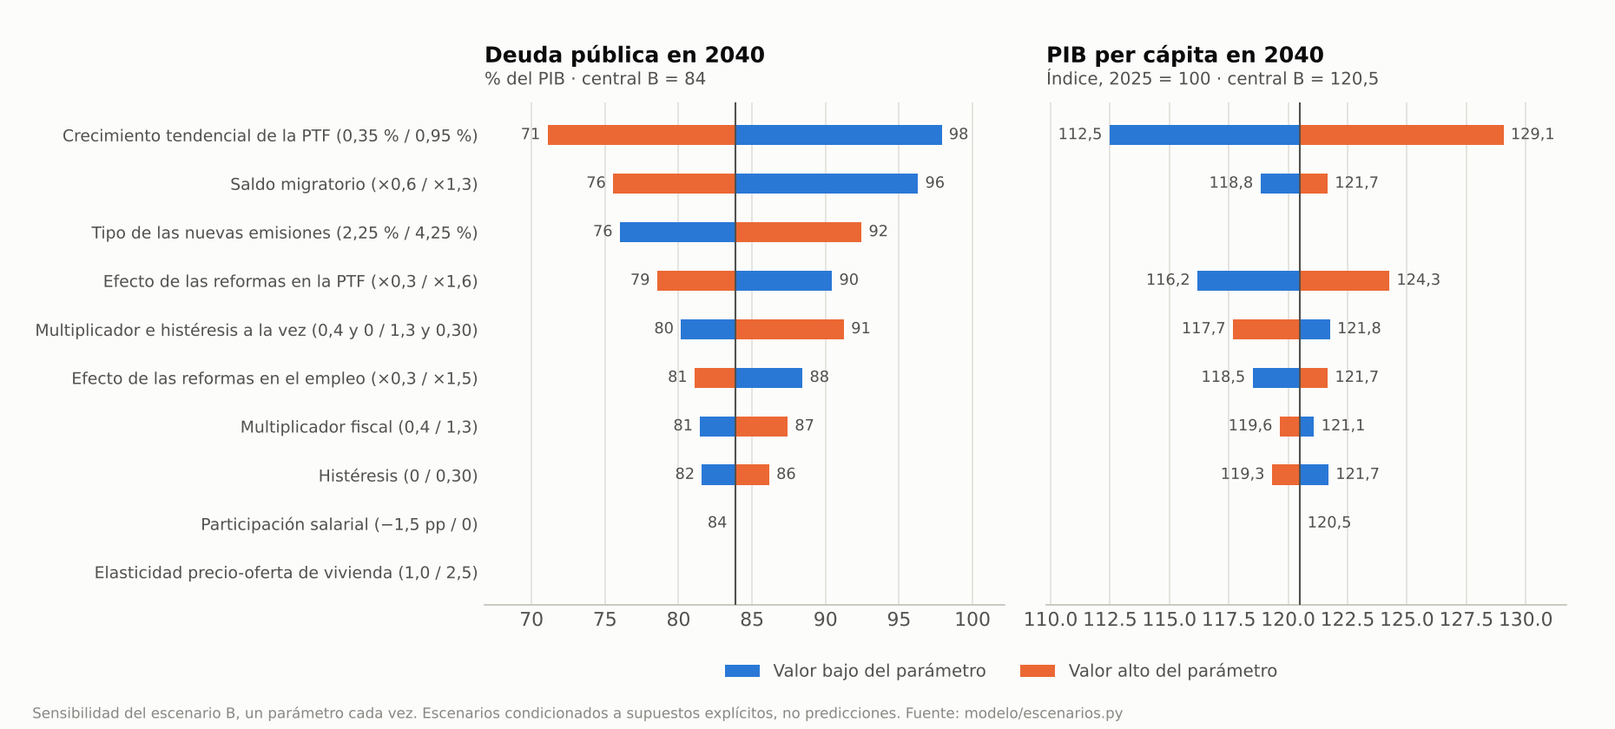
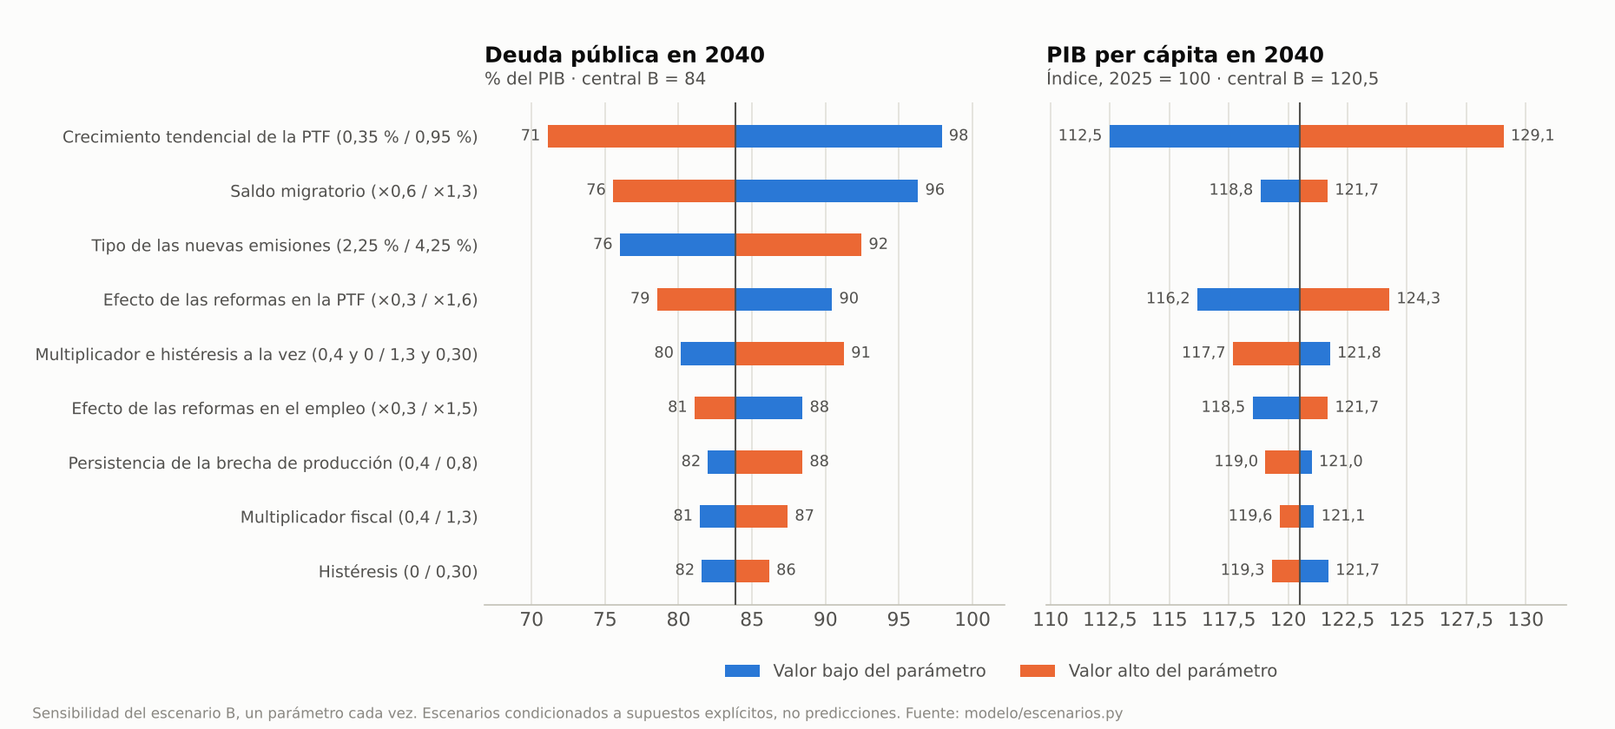
Fase 2: bloques de precios, pensiones y demografía, función pública y gasto
Claude-Session: https://claude.ai/code/session_01MXDwYoDdjNNQTuS5SSWoBb

diff --git a/modelo/escenarios.py b/modelo/escenarios.py
@@ -522,6 +522,7 @@ SENSIBILIDAD = [
     ("Histéresis (0 / 0,30)", "P", "histeresis", 0.0, 0.30),
     ("Multiplicador e histéresis a la vez (0,4 y 0 / 1,3 y 0,30)", "P", ("multiplicador", "histeresis"),
      (0.4, 0.0), (1.3, 0.30)),
+    ("Persistencia de la brecha de producción (0,4 / 0,8)", "P", "persistencia_brecha", 0.4, 0.8),
     ("Tipo de las nuevas emisiones (2,25 % / 4,25 %)", "P", "tipo_nuevo", 2.25, 4.25),
     ("Crecimiento tendencial de la PTF (0,35 % / 0,95 %)", "P", "ptf_base", 0.35, 0.95),
     ("Saldo migratorio (×0,6 / ×1,3)", "P", "factor_migracion", 0.6, 1.3),
@@ -576,6 +577,20 @@ def _estilo():
     return plt
 
 
+def _es(v, dec=None):
+    """Número con formato español (coma decimal, punto de millares)."""
+    if dec is None:
+        dec = 0 if abs(v - round(v)) < 1e-9 else 1
+    if dec < 0:
+        v, dec = round(v, dec), 0
+    return f"{v:,.{dec}f}".replace(",", "@").replace(".", ",").replace("@", ".")
+
+
+def _ejes_es(ax, eje="y"):
+    from matplotlib.ticker import FuncFormatter
+    getattr(ax, f"{eje}axis").set_major_formatter(FuncFormatter(lambda v, _: _es(v)))
+
+
 def _lineas(ax, res, col, base0, titulo, unidad, dec=1, ref=None, etiquetas=True):
     """Una línea por escenario, con valor final rotulado y sin doble eje."""
     finales = []
@@ -600,7 +615,7 @@ def _lineas(ax, res, col, base0, titulo, unidad, dec=1, ref=None, etiquetas=True
                     m = (pos[i] + pos[i - 1]) / 2
                     pos[i - 1], pos[i] = m - sep / 2, m + sep / 2
         for (k, v), p in zip(finales, pos):
-            txt = f"{k}  {v:,.{dec}f}".replace(",", "@").replace(".", ",").replace("@", ".")
+            txt = f"{k}  {_es(v, dec)}"
             ax.annotate(txt, (AÑO_FIN, p), xytext=(9, 0), textcoords="offset points",
                         va="center", ha="left", fontsize=9.5, color=TINTA)
     ax.set_title(titulo, loc="left", fontsize=12, color=TINTA, fontweight="bold", pad=22)
@@ -609,6 +624,7 @@ def _lineas(ax, res, col, base0, titulo, unidad, dec=1, ref=None, etiquetas=True
     ax.set_xticks(range(AÑO_BASE, AÑO_FIN + 1, 5))
     ax.grid(axis="x", visible=False)
     ax.tick_params(length=0)
+    _ejes_es(ax)
 
 
 def _leyenda(fig, ax, ncol=4, y=0.0):
@@ -657,7 +673,7 @@ def graficos(res: dict, sens: pd.DataFrame):
           "salario_bruto_real_indice", "Coste laboral real por ocupado", "Índice, 2025 = 100", 1,
           "07_salario_real.png")
     doble("deficit_vivienda_miles", "Déficit acumulado de vivienda",
-          "Miles de viviendas (hogares creados − viviendas terminadas, desde 2021)", 0,
+          "Miles de viviendas (hogares creados − viviendas terminadas, desde 2021)", -1,
           "precio_renta_años", "Precio de la vivienda / renta del hogar", "Años de renta bruta", 1,
           "08_vivienda.png", ref1=(0, "Déficit absorbido"))
 
@@ -671,15 +687,16 @@ def graficos(res: dict, sens: pd.DataFrame):
     for ax, (m, tit, uni, dec) in zip(axs, paneles):
         t = sb.pivot(index="parametro", columns="nivel", values=m)
         t["amp"] = (t["alto"] - t["bajo"]).abs()
-        if orden is None:
-            orden = t.sort_values("amp").index
+        if orden is None:  # solo los parámetros que mueven alguna de las dos magnitudes
+            mueve = sb.groupby("parametro")[[p[0] for p in paneles]].agg(lambda c: c.max() - c.min()).max(axis=1)
+            orden = [p for p in t.sort_values("amp").index if mueve[p] > 0.5]
         t = t.loc[orden]
         for i, (_, f) in enumerate(t.iterrows()):
             for nivel, color in (("bajo", "#2a78d6"), ("alto", "#eb6834")):
                 ax.barh(i, f[nivel] - central[m], left=central[m], height=0.42, color=color,
                         label=f"Valor {nivel} del parámetro" if i == 0 else None, zorder=3)
                 if abs(f[nivel] - central[m]) > 1e-6:
-                    ax.annotate(f"{f[nivel]:.{dec}f}".replace(".", ","), (f[nivel], i),
+                    ax.annotate(_es(f[nivel], dec), (f[nivel], i),
                                 xytext=(4 if f[nivel] > central[m] else -4, 0), textcoords="offset points",
                                 ha="left" if f[nivel] > central[m] else "right", va="center",
                                 fontsize=8.5, color=TINTA2)
@@ -692,6 +709,7 @@ def graficos(res: dict, sens: pd.DataFrame):
         ax.grid(axis="y", visible=False)
         ax.tick_params(length=0)
         ax.margins(x=0.16)
+        _ejes_es(ax, "x")
     fig.subplots_adjust(left=0.3, right=0.97, top=0.86, bottom=0.17, wspace=0.08)
     h, l = axs[0].get_legend_handles_labels()
     fig.legend(h, l, loc="lower center", ncol=2, frameon=False, fontsize=9.5, labelcolor=TINTA2,

diff --git a/docs/02-bloques/06-funcion-publica-y-gasto.md b/docs/02-bloques/06-funcion-publica-y-gasto.md
@@ -1,0 +1,185 @@
+# 06 · Función pública y gasto
+
+*España Dinámica 2040 · Fase 2, bloque de diseño institucional (grupo B) · noviembre de 2026*
+
+**Referencias internas.** [MB] marco base; [D §x] diagnóstico (doc. 01); [E §x] evidencia internacional (doc. 02); [RT §x] crítica y riesgos (doc. 03); [C1-C12] condiciones del red team. 1 punto de PIB ≈ 17.000 M€.
+
+---
+
+## 1. Problema y objetivos medibles
+
+**Punto de partida honesto.** El Estado español **no es grande** en comparación europea: el gasto público es del ≈45-46 % del PIB frente al 49,6 % de la UE, y el empleo público del ≈16-17 % del total frente al 18,4 % de la OCDE [D §7.1-7.2]. El problema es otro:
+- **Composición y reglas:** déficit del 2,4 % (2025) y previsto del 2,8 % (2026), estructural probablemente del 2,5-3 %, con deuda del 101 % y nuevas emisiones al ≈3 % [D §7.1]. Además, una presión de envejecimiento de ≈3 puntos hasta 2050 [D §5.1], unas reglas (art. 135 CE, LO 2/2012) incumplidas de forma reiterada [RT §8] y el incumplimiento previsto de la senda de gasto neto pactada con la UE [D §7.1].
+- **Gestión:** temporalidad pública del 27,3 % (frente al 12,6 % privada), más de 936.000 interinos, plantillas envejecidas, oposición memorística, poca evaluación y movilidad escasa [D §7.2].
+- **Gasto evaluado poco y mal:** ≈14.000 M€ anuales en subvenciones "sin rendición de cuentas" sobre resultados (AIReF, 2019) y ≈60.000 M€ en beneficios fiscales (AIReF, con datos de 2020).
+
+El objetivo es **eficiencia, composición y reglas, no tamaño**. El red team exige aritmética cerrada [C1] y un ancla estructural gradual [C2].
+
+| Indicador | Partida | 2030 | 2035 | 2040 |
+|---|---|---|---|---|
+| Saldo estructural (% PIB) | ≈−2,5/−3 (estimación indicativa [D §7.1]) | −1,5/−2,2 | −0,5/−1,5 | 0/−1 |
+| Deuda pública (% PIB) | 101,4 % (2T 2026) | 95-100 % | 85-95 % | 75-90 % |
+| Temporalidad en el empleo público | 27,3 % (3T 2026) | 12-16 % | 8-10 % | ≤8 % |
+| Gasto revisado por *spending review* con decisión publicada (acumulado a 8 años) | <20 % (no verificado) | 50-60 % | 100 % (ciclo completo) | 100 % (2.º ciclo) |
+
+---
+
+## 2. Propuestas
+
+### P1. Regla de gasto plurianual vinculante (techo a la sueca u holandesa)
+- **Norma:** LO 2/2012 de estabilidad presupuestaria (orgánica: 176 votos), dentro del marco fiscal de la UE (senda de gasto neto). No requiere reforma constitucional.
+- **Diseño:** al inicio de cada legislatura se aprueba un **techo nominal de gasto primario neto** (descontando las medidas discrecionales de ingreso) para cuatro años, para el conjunto de las AAPP y repartido por subsector en el Consejo de Política Fiscal y Financiera. El crecimiento del techo es el del PIB potencial nominal menos el ajuste estructural requerido, con un **ritmo de consolidación de 0,3-0,5 puntos estructurales al año** [RT §1.2]. Los ingresos imprevistos no financian gasto (norma Zalm). **Cláusula cíclica automática:** si la brecha de producción estimada por la AIReF es menor de −1,5 %, el ajuste se suspende y operan los estabilizadores. La formación bruta de capital no baja del 2,5 % del PIB (inversión protegida) y el gasto en familia y 0-3 queda fuera del perímetro de recorte [RT §6.3]. Las previsiones macro las hace la AIReF, que pasa a ser vinculante para el cuadro presupuestario.
+- **Coste:** nulo.
+- **Aval:** es "probablemente la lección fiscal más sólida y barata" (Suecia desde 1997; norma Zalm en los Países Bajos, con el déficit del 3,4 % al superávit en 5 años) [E §1.3, §1.5, §9.1].
+
+### P2. *Spending reviews* de la AIReF vinculantes por "cumplir o explicar"
+- **Norma:** LO 6/2013 de la AIReF y Ley General Presupuestaria (ley estatal); convenios con las CC. AA.
+- **Diseño:** un ciclo de revisión de **todo el gasto en 8 años** (≈12-15 % del gasto al año), con criterios explícitos al estilo canadiense: interés público, papel del Estado, nivel de gobierno, eficacia y asequibilidad [E §1.2]. El Gobierno debe incorporar cada recomendación al siguiente presupuesto o justificar ante el Congreso, en tres meses, por qué no lo hace. La AIReF publica cada año el ahorro identificado frente al presupuestado, que es el indicador de alerta de [RT §1.1]. La AIReF recibe un presupuesto plurianual propio (+20-30 M€ al año).
+- **Coste:** 20-30 M€ al año.
+- **Aval:** con la Program Review canadiense el gasto en programas se recortó un 15-20 % en tres años, en un contexto externo favorable [E §1.2, §8]; las fases I-III de la *spending review* española (2018-2021) existen pero no son vinculantes.
+
+### P3. Presupuesto base cero por programas, caducidad y digitalización
+- **Norma:** Ley General Presupuestaria; Ley 38/2003 General de Subvenciones; Ley 39/2015 de procedimiento (digitalización).
+- **Diseño:** (a) cada programa presupuestario se justifica desde cero una vez cada cinco años (rotación del 20 % anual), con indicadores de resultado publicados; (b) **caducidad automática** de toda línea de subvención y de todo beneficio fiscal a los cinco años salvo evaluación positiva; (c) plan de **"solo una vez"** e interoperabilidad obligatoria entre administraciones, con tramitación automatizada de prestaciones regladas (IMV, becas, ayudas) y **actuación administrativa automatizada** con auditoría de algoritmos.
+- **Coste:** la inversión digital va con cargo a la inversión protegida; el ahorro se recoge en el cuadro de P4.
+- **Aval:** la digitalización es "la lección más trasladable y de menor coste político" de Estonia, pero el ahorro del 2 % del PIB que se cita es una **estimación gubernamental antigua sin auditar** [E §3.3]; por eso aquí se le atribuyen solo décimas.
+
+### P4. Cuadro de fuentes y usos del ajuste 2027-2036 (ley de programación fiscal)
+- **Norma:** ley de programación fiscal plurianual vinculada a P1; cada partida remite a su norma sectorial.
+- **Diseño:** cifras en puntos de PIB de 2036 **frente a la senda inercial** (no frente al gasto actual: varias partidas suben en términos absolutos).
+
+| Fuente | Rango (p. p. PIB) | De dónde sale | Realismo |
+|---|---|---|---|
+| Pensiones (bloque 05: edad ligada a la esperanza de vida, cómputo de toda la carrera, ajuste automático, prolongación; netos del suelo de mínimos) | 0,6-1,2 | Menos pensiones por ocupado y pensión media que crece menos que la productividad | Medio: depende del pacto; lo más incierto políticamente |
+| Beneficios fiscales (de ≈60.000 M€) | 0,4-0,8 | Supresión de los evaluados como ineficaces por la AIReF y caducidad a los 5 años; **excluye** la parte de IVA usada en la rebaja de cotizaciones (bloque 04, P11) | Medio-alto técnicamente; las resistencias sectoriales son fuertes |
+| Subvenciones y transferencias corrientes a empresas | 0,15-0,3 | Caducidad y evaluación de unos 14.000 M€ en líneas estatales y su equivalente autonómico | Medio |
+| Compras públicas, duplicidades y digitalización | 0,2-0,4 | Centralización de compras, contratación electrónica con más concurrencia, eliminación de organismos solapados entre niveles y "solo una vez" | Medio; ahorros graduales |
+| Masa salarial pública: reposición por perfiles y productividad | 0,2-0,4 | La remuneración crece ≈0,3-0,5 puntos al año por debajo del PIB nominal mediante reposición selectiva fuera de sanidad, educación y seguridad; sin despidos y sin recorte nominal | Medio; choca con la presión de las jubilaciones en sanidad [RT §5.2] |
+| Sanidad: farmacia y tecnologías | 0,1-0,25 | Compra centralizada, biosimilares y genéricos, evaluación coste-efectividad vinculante para financiar nuevas prestaciones | Medio-alto |
+| Sector público instrumental y empresas públicas | 0,05-0,15 | Cierre o fusión de entes sin función, test de P11 y menores aportaciones de capital | Medio; las ventas de activos reducen la deuda pero **no** el déficit estructural |
+| Fin de las medidas energéticas temporales y bonificaciones no focalizadas | 0,1-0,3 | Retirada de las rebajas generales de 2026 y sustitución por ayudas focalizadas | Alto si la senda inercial no supone ya su retirada (verificar) |
+| **Total bruto** | **1,8-3,8** | | |
+| **Usos (reinversión)** | | | |
+| Deflactación del IRPF (bloque 04, P10) | −0,3/−0,5 | Renuncia a la progresividad en frío | Seguro |
+| Familia: 0-3, permiso parental retribuido y crédito por hijo (bloque 05, P8-P9) | −0,3/−0,5 | | Seguro |
+| Incentivos del pilar complementario (bloque 05, P7) | −0,05/−0,15 | | Seguro |
+| Fondo de transición, políticas activas y reforma del SEPE | −0,15/−0,3 | Precondición de la reforma laboral [C3] | Seguro |
+| **Ajuste neto** | **≈1,0-2,4** | | |
+
+**Lectura.** El ajuste bruto de 2,5-4 puntos que suele invocarse solo se alcanza en la mitad alta del rango y **exige que las pensiones aporten en torno a un tercio**. La "grasa" (subvenciones, duplicidades y sector instrumental) suma 0,4-0,85 puntos: real, pero insuficiente [RT §1.1]. El ajuste neto (≈1-2,4 puntos), junto con el ahorro en intereses de una deuda decreciente (0,2-0,4 puntos en 2036; estimación propia), lleva el saldo estructural a −0,5/−1,5 % en 2035. Si a mitad de periodo (2031) el ajuste neto acumulado es menor de 1 punto, se activa una **reserva de ingresos** pactada de antemano: ampliación de las bases del IVA más allá de la devaluación fiscal y fiscalidad ambiental (0,3-0,6 puntos), en lugar de recortes lineales o de inversión. No se incluyen las presiones adicionales de defensa, que habría que financiar aparte.
+
+### P5. Agencia independiente de selección y reforma del acceso
+- **Norma:** TREBEP (RDLeg 5/2015), legislación básica estatal (art. 149.1.18 CE); las CC. AA. y las EE. LL. se adhieren por convenio o crean órganos equivalentes con estándares comunes.
+- **Diseño:** **agencia de selección** dirigida por una persona nombrada por 3/5 del Congreso (mandato de 6 años), que ejecuta los procesos de la AGE y de las administraciones adheridas: calendario anual fijo, pruebas de competencias y casos prácticos en lugar de parte del temario memorístico, tribunales sorteados entre especialistas y tasas de éxito publicadas. Ningún empleo estable fuera de sus procesos.
+- **Coste:** 30-60 M€ al año, compensados con las economías de escala de los procesos.
+- **Aval:** el reclutamiento meritocrático se asocia a crecimiento y menos corrupción (Evans y Rauch, 1999; Dahlström, Lapuente y Teorell, 2012) [RT §5.1]; Suecia funciona por sus salvaguardas de mérito [E §5.1].
+
+### P6. Régimen laboral para nuevas incorporaciones fuera de funciones de autoridad
+- **Norma:** TREBEP, arts. 9 y 11 (ley básica estatal). **Riesgo constitucional:** la STC 99/1987 interpreta el art. 103.3 CE con una preferencia por el régimen funcionarial. La extensión debe definirse por funciones y requiere dictamen previo del Consejo de Estado; si el TC la limitase, el diseño se mantiene dentro del estatuto con las garantías de P7.
+- **Diseño:** desde 2029, las nuevas incorporaciones a puestos **sin ejercicio de autoridad** (gestión administrativa, servicios técnicos y buena parte del personal de apoyo) se rigen por un **contrato laboral público** con acceso por P5. El despido solo procede por causas objetivas, disciplinarias o de evaluación negativa reiterada, **resueltas por un órgano independiente** y no por el superior político. Se prohíben los despidos y los ceses no disciplinarios en los 12 meses posteriores a un cambio de gobierno [RT §5.1]. **Se mantiene el estatuto funcionarial** en justicia, inspección, intervención, policía, regulación, diplomacia y recaudación. Los funcionarios actuales conservan su estatuto (derechos adquiridos).
+- **Coste:** neutro.
+- **Aval:** Suecia (régimen laboral con baja corrupción) y Portugal 2008 (nombramiento limitado a funciones de autoridad, con problemas de arbitrariedad en la evaluación) [E §5.1-5.2]; "dualizar por funciones, no eliminar el estatuto" [E §9.10].
+
+### P7. Dirección pública profesional y evaluación del desempeño
+- **Norma:** TREBEP, art. 13 (directivo público profesional, "apenas desarrollado" [E §5.1]); Ley 40/2015 de régimen jurídico del sector público.
+- **Diseño:** (a) los puestos desde subdirección general (≈3.000-5.000 en el conjunto de las AAPP; no verificado) se cubren por **concurso abierto** evaluado por la agencia de P5, con contrato por objetivos de 5 años; la libre designación queda limitada a los gabinetes; (b) **evaluación del desempeño** con consecuencias en la carrera (promoción y complemento) **solo donde los resultados son medibles** (gestión tributaria, prestaciones, tramitación), sin cuotas forzadas de calificaciones, y por equipos en los servicios complejos.
+- **Coste:** neutro (redistribución de complementos).
+- **Aval:** la retribución por desempeño tiene efectos pequeños o nulos en tareas complejas y positivos en tareas medibles [E §5.3]; Nueva Zelanda muestra los riesgos de fragmentación con directivos-contratistas [E §5.1].
+
+### P8. Fin de la temporalidad abusiva y planificación por perfiles
+- **Norma:** TREBEP; Directiva 1999/70/CE y la jurisprudencia del TJUE; Ley 20/2021 de reducción de la temporalidad.
+- **Diseño:** oferta de empleo **trienal y obligatoria** que cubra las plazas estructurales ocupadas por interinos; interinidad máxima de 3 años, con responsabilidad patrimonial y del gestor si se supera; reposición vinculada a un **plan de perfiles** (digital, datos, sanidad, inspección) y no a la tasa de reposición lineal; movilidad entre administraciones con reconocimiento automático de grado y antigüedad.
+- **Coste:** neutro o ligero ahorro (menos litigios por abuso de temporalidad).
+- **Aval:** la temporalidad pública (27 %) duplica la privada [D §7.2]; la reforma laboral de 2021 muestra que restringir la temporalidad funciona [E §2.5].
+
+### P9. Competencia y elección en sanidad y educación con financiación pública
+- **Norma:** Ley 14/1986 General de Sanidad y Ley 16/2003 de cohesión; LOE; competencia autonómica de gestión, con bases estatales.
+- **Diseño:** **sanidad:** libre elección de médico y hospital dentro del SNS, con parte de la financiación siguiendo al paciente; contratos privados solo con indicadores públicos comparables con la gestión directa, sin selección y con cápita ajustada por riesgo [C8]. **Educación:** financiación ponderada por alumno desfavorecido (pública y concertada); sorteo si hay exceso de demanda; **prohibición efectiva de copagos**; pruebas externas censales (4.º de primaria y 2.º de ESO); índice de segregación municipal publicado.
+- **Coste:** el módulo ponderado de la concertada cuesta 0,05-0,1 puntos de PIB, compensado en el cuadro con otras partidas.
+- **Aval:** la competencia gestionada holandesa exige una compensación de riesgos sofisticada y no ahorra de forma demostrada [E §6.2]; el cheque sueco dio una mejora pequeña a 10 años, con inflación de notas y segregación [E §6.1]; Alzira enseña que todo depende del contrato y de los datos [E §6.3].
+
+### P10. Test de privatización y externalización por sectores
+- **Norma:** Ley 33/2003 de patrimonio de las AAPP (SEPI) y Ley 9/2017 de contratos del sector público.
+- **Diseño:** test de cuatro preguntas dictaminado por la AIReF y la CNMC: ¿hay **competencia posible**? ¿La **calidad es contratable**? ¿Es **red o monopolio natural**? ¿Hay **capacidad de supervisión**? Resultado orientativo: *vender* participaciones de la SEPI en sectores competitivos no estratégicos; *competencia por el mercado con titularidad pública* en Cercanías, media distancia, autobús estatal, limpieza, mantenimiento y residuos; *titularidad pública regulada* en Adif, redes de agua y Enaire, con límites al apalancamiento y los dividendos de los concesionarios y sin responsabilidad patrimonial automática; *no externalizar* la atención sanitaria y social compleja salvo con P9.
+- **Coste:** las ventas generan ingresos de capital únicos (reducción de deuda de 0,5-1,5 puntos de PIB a 10 años; no verificado), sin efecto sobre el saldo estructural.
+- **Aval:** la privatización funciona con competencia efectiva [E §3.4, §9.7]; los ahorros de la externalización son modestos, decrecientes y concentrados en servicios técnicos [E §5.4]; las autopistas radiales muestran la socialización de pérdidas [RT §4.4].
+
+### P11. Financiación autonómica: corresponsabilidad y regla compartida
+- **Norma:** LOFCA (LO 8/1980, orgánica) y Ley 22/2009 del sistema de financiación; Consejo de Política Fiscal y Financiera.
+- **Diseño:** (a) más capacidad normativa autonómica en el IRPF e impuestos especiales, con **cesta tributaria** visible al contribuyente; (b) **fondo de nivelación** que iguale la financiación por habitante ajustado en servicios fundamentales, con fórmula estable a 8 años; (c) techo de gasto de P1 por comunidad; (d) FLA y mecanismos extraordinarios condicionados a un plan supervisado por la AIReF y a la adhesión a P5-P8, **sin rescates incondicionales**; (e) parte de la financiación estatal condicionada a resultados en vivienda y 0-3.
+- **Coste:** neutro en la suma de administraciones si la nivelación se financia redistribuyendo el aumento de recursos y no añadiéndolo.
+- **Aval:** la Program Review canadiense trasladó recortes a las provincias y luego hubo que reponerlos [E §1.2]: aquí no se traslada el ajuste, se comparte la regla.
+
+### P12. Unidad de ejecución y transparencia de resultados
+- **Norma:** real decreto (organización) y ley de transparencia (Ley 19/2013).
+- **Diseño:** unidad de ejecución en Presidencia con plantilla propia; cuadro de mando trimestral público; análisis de incidencia **por decila y provincia** de cada medida mayor de 0,05 puntos de PIB, publicado antes de aprobarla [C12]; criterios de fracaso fijados de antemano.
+- **Coste:** 5-10 M€ al año.
+- **Aval:** responde al riesgo de ejecución [RT §9].
+
+---
+
+## 3. Mecanismos de impacto
+
+| Problema | Cadena causal |
+|---|---|
+| **Productividad** | P5-P8 traen mejor selección y dirección, y con ellas mejores servicios públicos (justicia, licencias, educación), que son inputs de la productividad privada. P3c reduce las cargas administrativas. P9 mejora la calidad educativa a muy largo plazo (efecto pequeño [E §6.1]). |
+| **Poder adquisitivo** | P1-P4 hacen viables la deflactación y la rebaja de cotizaciones sin deuda. Una deuda decreciente reduce el pago de intereses (2,4 % del PIB [D §7.1]) y libera espacio. |
+| **Salarios reales** | Menor cuña futura: sin regla ni ajuste en pensiones, la alternativa son más cotizaciones [D §8.2, bucle 1]. |
+| **Pensiones** | P1 integra la regla de pensiones en el techo general; P2 incluye el sistema en el ciclo de revisión. |
+| **Vivienda** | P11e condiciona la financiación a resultados de vivienda; P1 protege la inversión habilitante (agua, transporte) [RT §3.2]; P3 y P7 agilizan la tramitación. |
+| **Natalidad** | P1 excluye el gasto familiar del recorte y P4 lo financia; P8 estabiliza el empleo público joven (temporalidad del 27 %), en línea con la evidencia que asocia la temporalidad a menos nacimientos [E §7.2]. |
+
+---
+
+## 4. Efectos por orden y plazo
+
+| | Corto (1-3 años) | Medio (3-10 años) | Largo (10+ años) |
+|---|---|---|---|
+| **1.er orden** | Ajuste de 0,3-0,5 puntos estructurales al año; coste en PIB de 0,15-0,5 puntos por punto de ajuste [E §9.2], menor por la composición (gasto e intereses) y la gradualidad. Temporalidad pública −8/−12 puntos | Saldo estructural −0,5/−1,5. Deuda del 85-95 %. Ciclo completo de revisión. Temporalidad del 8-10 % | Deuda del 75-90 %; margen fiscal para shocks y envejecimiento. Plantillas renovadas por perfiles |
+| **2.º orden** | Conflicto con los sectores que pierden subvenciones y beneficios fiscales; litigios sobre P6 | Menos litigios y más productividad en la gestión; mejora en los plazos de licencias y justicia (sin cuantificar) | Mejor calidad institucional; menor coste de financiación (prima de 10-40 p. b. menor; no verificado) |
+| **3.er orden** | Señal de credibilidad ante la UE y los mercados (magnitud pequeña con la prima actual [RT §1.2]) | Administración meritocrática menos vulnerable al clientelismo; posible fragmentación si falla la coordinación (caso neozelandés) | Cultura de evaluación; reglas creíbles que sobreviven a los cambios de gobierno si hay un pacto amplio |
+
+---
+
+## 5. Beneficiados, perjudicados y compensación
+
+| Grupo | Cuántos (aprox.) | Efecto | Compensación |
+|---|---|---|---|
+| Interinos en plazas estructurales | ≈936.000 [D §7.2] | Estabilización mediante procesos con mérito; algunos no superarán las pruebas | Valoración limitada de la experiencia en el concurso (dentro de lo que permite la jurisprudencia europea); pasarela a bolsas y prestación |
+| Funcionarios actuales | ≈2 millones (no verificado) | Conservan su estatuto; masa salarial contenida (salarios reales que crecen menos que el PIB) | Carrera y movilidad mejoradas; evaluación con consecuencias positivas |
+| Nuevos empleados públicos sin funciones de autoridad | ≈60.000-100.000 incorporaciones al año (no verificado) | Contrato laboral con garantías frente al cese político; menor inamovilidad | Órgano independiente; protección de 12 meses tras las elecciones |
+| Beneficiarios de subvenciones y beneficios fiscales suprimidos | sectores concentrados | 0,55-1,1 puntos de PIB menos en total | Transición de 2-3 años en cada supresión |
+| Comunidades con financiación por habitante baja | Valencia, Murcia, Andalucía y otras (no verificado) | Ganan con la nivelación | — |
+| Provincias con mucho empleo público | España interior | Sin despidos; reposición selectiva y más lenta | Evaluación de impacto territorial; calendario diferenciado [RT §7.2] |
+
+---
+
+## 6. Riesgos, mitigaciones y alerta temprana
+
+| Riesgo | Crítica del red team | Respuesta | Alerta |
+|---|---|---|---|
+| "No hay grasa": el ajuste acaba en recortes lineales o en inversión | [RT §1.1], [C1] | Cuadro cerrado (P4) con la parte de pensiones explícita; inversión protegida; reserva de ingresos en lugar de tijera lineal | Ahorro identificado frente a presupuestado; FBCF menor del 2,5 % del PIB |
+| Consolidación autodestructiva (multiplicadores mayores de 1 en la unión monetaria) | [RT §1.2], [C2] | Ritmo de 0,3-0,5 puntos; cláusula cíclica automática; composición por el lado del gasto y de los beneficios fiscales | Brecha de producción; errores de previsión correlacionados con el ajuste |
+| Histéresis | [RT §1.3], [C3] | Sin despidos públicos; fondo de transición previo a cualquier reforma laboral | Paro de larga duración; actividad de los mayores de 50 |
+| Clientelismo al laboralizar | [RT §5.1], [C9] | La agencia de selección (P5) se aprueba **antes** que P6; estatuto en las funciones de autoridad; órgano independiente; veto a los ceses durante 12 meses tras las elecciones | Rotación tras las elecciones; porcentaje de libre designación; contratos menores |
+| "Empleados de baja productividad" sin medición | [RT §10.11] | Evaluación solo donde hay métricas; objetivos de composición y no de plantilla [RT §5.2] | Listas de espera; ratios alumno/profesor; vacantes cualificadas sin cubrir |
+| Segregación y descreme en servicios con competencia | [RT §4.3], [C8] | Sorteo, prohibición de copagos, compensación de riesgos y datos abiertos | Índice de segregación; rechazo de pacientes; gasto de bolsillo |
+| Socialización de pérdidas en las concesiones | [RT §4.4], [C7] | Test de P10; sin responsabilidad patrimonial automática; límites al apalancamiento | Pasivos contingentes de APP (Eurostat); renegociaciones |
+| Incumplimiento de la regla, como con la LO 2/2012 | [RT §8] | AIReF vinculante en las previsiones; techo por legislatura; sanción reputacional y condicionalidad del FLA | Desviaciones sobre el techo; uso de la cláusula de escape |
+| Vaciamiento autonómico | [RT §8], [C12] | Financiación condicionada (P11), no imposición; convenios de adhesión | Adhesiones; conflictos de competencia |
+
+---
+
+## 7. Qué NO se propone y por qué
+
+1. **Reducir el tamaño del Estado como objetivo.** El marco base habla de "reducción del Estado". España ya gasta 4 puntos menos que la UE y tiene menos empleo público que la OCDE [D §7]. El objetivo es la composición y la eficiencia; el gasto total puede incluso mantenerse si crece el gasto en envejecimiento y familia.
+2. **"Cero déficit" financiado con "gasto improductivo".** El marco lo plantea así. La aritmética de P4 muestra que la grasa da 0,4-0,85 puntos; el resto viene de pensiones y beneficios fiscales, con una reserva de ingresos. El ancla es el **saldo estructural**, no el déficit nominal cero [RT, afirmación 1 a rebajar].
+3. **Fin general del empleo público vitalicio y despidos masivos.** El marco lo plantea "sin matices". Se dualiza por funciones, con mérito y órgano independiente, y sin afectar a los funcionarios actuales [RT §5.1; E §9.10].
+4. **Privatización como principio general.** Solo tras el test de P10 [C7]; las redes siguen siendo públicas.
+5. **Cheque universal sin regulación en educación o seguros sanitarios en competencia sin compensación de riesgos.** Chile y la evidencia sobre selección adversa lo desaconsejan [RT §4.3; E §6.1-6.2].
+6. **Crowding-in y confianza como compensación del ajuste.** Con prima baja y tipos fijados por el BCE, el margen es pequeño [RT, afirmación 4]. Por eso el ajuste es gradual y con cláusula cíclica.
+7. **"Zonas de máxima desregulación"** como pilotos. Presentan autoselección y problemas con los arts. 14 y 139 CE [RT §9]; se sustituyen por pilotos con asignación aleatoria o escalonada.
+
+---
+
+*Fuentes externas además de la Fase 1: AIReF, *spending review* de subvenciones (≈14.000-14.300 M€; 2019), vía [Valencia Plaza](https://valenciaplaza.com/valenciaplaza/la-airef-critica-la-falta-de-coordinacion-sobre-14000-millones-de-euros-en-subvenciones) y [El Español](https://www.elespanol.com/invertia/economia/20190603/espana-millones-anuales-subvenciones-sin-rendicion-cuentas/403460900_0.html); AIReF, beneficios fiscales (≈60.000 M€ con datos de 2020; tipos reducidos de IVA ≈17.787 M€), vía [Fundación FAES](https://fundacionfaes.org/wp-content/uploads/2025/07/007-018-SANTIAGO-ALVAREZ.pdf). Ambas cifras deben cotejarse con los informes originales de la AIReF.*

diff --git a/modelo/README.md b/modelo/README.md
@@ -1,0 +1,71 @@
+# Modelo de escenarios 2026-2040 · España Dinámica 2040
+
+Modelo anual, determinista y transparente para comprobar la aritmética del programa de reformas. No es un modelo de previsión ni de equilibrio general: es una contabilidad encadenada cuyos supuestos están todos en un único archivo.
+
+## Ejecución
+
+```bash
+python3 -m pip install numpy pandas matplotlib   # solo si faltan
+python3 modelo/escenarios.py
+```
+
+Requisitos: Python 3.9 o posterior, `numpy`, `pandas` y `matplotlib` (probado con Python 3.11, pandas 2.x y matplotlib 3.x). Sin `matplotlib` el script calcula todo y omite los gráficos. No hay aleatoriedad ni descarga de datos: dos ejecuciones dan el mismo resultado. Tarda unos segundos.
+
+## Qué produce
+
+Todo se escribe en `modelo/resultados/` y se sobrescribe en cada ejecución.
+
+| Archivo | Contenido |
+|---|---|
+| `escenario_A.csv` … `escenario_D.csv` | Serie anual 2026-2040 de cada escenario (unas 45 variables) |
+| `resumen_2030_2035_2040.csv` | Los tres años de referencia, todos los escenarios |
+| `sensibilidad.csv` | Resultados en 2040 al mover un parámetro cada vez (escenarios A, B y D) |
+| `tablas.md` | Tablas en Markdown que alimentan `RESULTADOS.md` |
+| `01_pib_per_capita.png` … `09_sensibilidad.png` | Nueve gráficos |
+
+`RESULTADOS.md` (en esta carpeta) interpreta los resultados. Está escrito a mano a partir de `tablas.md`: si se cambia un parámetro hay que revisar sus cifras.
+
+## Escenarios
+
+| Clave | Escenario | Qué cambia |
+|---|---|---|
+| A | Inercial | Sin reformas ni ajuste discrecional |
+| B | España Dinámica (central) | Ajuste gradual del gasto, reformas escalonadas, efectos centrales de la literatura |
+| C | Efectos bajos | Las mismas políticas que B con efectos al 30 % |
+| D | Terapia de choque | Las mismas reformas, todas en 2027, con un ajuste de 3,6 puntos de PIB en tres años |
+
+## Estructura del código
+
+`escenarios.py` tiene siete bloques, en este orden:
+
+1. `P0`: parámetros estructurales. Cada uno lleva su etiqueta de procedencia: `[DIAG n]` (indicador n del diagnóstico), `[LIT]` (literatura, citada de memoria como orden de magnitud), `[SUP]` (supuesto del proyecto), `[CAL]` (calibrado) y `[NV]` (dato de origen no verificado).
+2. `ESCENARIOS`: políticas (calendario de recortes, pensiones, cuña, vivienda) y tamaño de los efectos de cada reforma.
+3. Funciones auxiliares: perfil logístico de entrada de las reformas y demografía.
+4. `simular()`: el bucle anual, con seis pasos (oferta, pensiones, demanda, fiscal, salarios y vivienda).
+5. `sensibilidad()`: lista `SENSIBILIDAD` de parámetros y rangos.
+6. Gráficos.
+7. Tablas y comprobaciones frente a AIReF y el Ageing Report.
+
+## Cómo modificarlo
+
+- **Cambiar un supuesto:** editar el valor en `P0` y volver a ejecutar.
+- **Añadir un escenario:** copiar una entrada de `ESCENARIOS` con `copy.deepcopy`, cambiar lo necesario y añadir su color en `COLORES` y su estilo en `ESTILOS`. Las tablas de `tablas()` están escritas para las claves A-D.
+- **Añadir un parámetro a la sensibilidad:** añadir una tupla a `SENSIBILIDAD` (`"P"` para un parámetro de `P0`, `"E"` para uno del escenario).
+- **Usarlo desde otro script:**
+
+```python
+import copy, sys
+sys.path.insert(0, "modelo")
+import escenarios as m
+
+P = copy.deepcopy(m.P0)
+P["multiplicador"] = 1.2
+df = m.simular(m.ESCENARIOS["D"], P)   # DataFrame indexado por año
+print(df[["tasa_paro", "deuda_pib"]])
+```
+
+## Avisos
+
+- Las cifras marcadas `[LIT]` son órdenes de magnitud citados de memoria. Hay que cotejarlas con la fuente antes de publicarlas.
+- Varios datos de partida heredan la marca "(no verificado)" del diagnóstico (gasto público total de 2025, déficit estructural, estructura por edades de la proyección del INE).
+- El escenario inercial se calibra cerca de las proyecciones oficiales, no para reproducirlas: `comprobaciones()` imprime la comparación en cada ejecución.

diff --git a/modelo/resultados/tablas.md b/modelo/resultados/tablas.md
@@ -96,6 +96,7 @@ Paro máximo: A = 10,3 % (2026); B = 10,3 % (2026); C = 10,3 % (2026); D = 11,8 
 | Multiplicador fiscal (0,4 / 1,3) | 121 → 120 | 6,8 → 7,4 | 81 → 87 | 115 → 115 | 120 → 119 | 8,3 → 8,3 | 57 → 68 | 121 → 119 | 10,7 → 13,1 |
 | Histéresis (0 / 0,30) | 122 → 119 | 6,5 → 7,5 | 82 → 86 | 115 → 115 | 120 → 119 | 8,3 → 8,3 | 57 → 66 | 122 → 118 | 11,5 → 12,1 |
 | Multiplicador e histéresis a la vez (0,4 y 0 / 1,3 y 0,30) | 122 → 118 | 6,5 → 8,1 | 80 → 91 | 115 → 115 | 120 → 118 | 8,3 → 8,3 | 54 → 76 | 122 → 115 | 10,7 → 13,6 |
+| Persistencia de la brecha de producción (0,4 / 0,8) | 121 → 119 | 6,8 → 7,6 | 82 → 88 | 115 → 115 | 120 → 119 | 8,3 → 8,3 | 59 → 69 | 121 → 118 | 11,4 → 12,2 |
 | Tipo de las nuevas emisiones (2,25 % / 4,25 %) | 121 → 121 | 7,0 → 7,0 | 76 → 92 | 106 → 125 | 119 → 119 | 8,3 → 8,3 | 55 → 69 | 120 → 120 | 11,8 → 11,8 |
 | Crecimiento tendencial de la PTF (0,35 % / 0,95 %) | 112 → 129 | 7,0 → 7,0 | 98 → 71 | 131 → 101 | 112 → 128 | 8,3 → 8,3 | 74 → 50 | 112 → 129 | 11,8 → 11,8 |
 | Saldo migratorio (×0,6 / ×1,3) | 119 → 122 | 7,0 → 7,0 | 96 → 76 | 129 → 106 | 119 → 119 | 7,8 → 8,7 | 73 → 54 | 118 → 121 | 11,8 → 11,8 |
